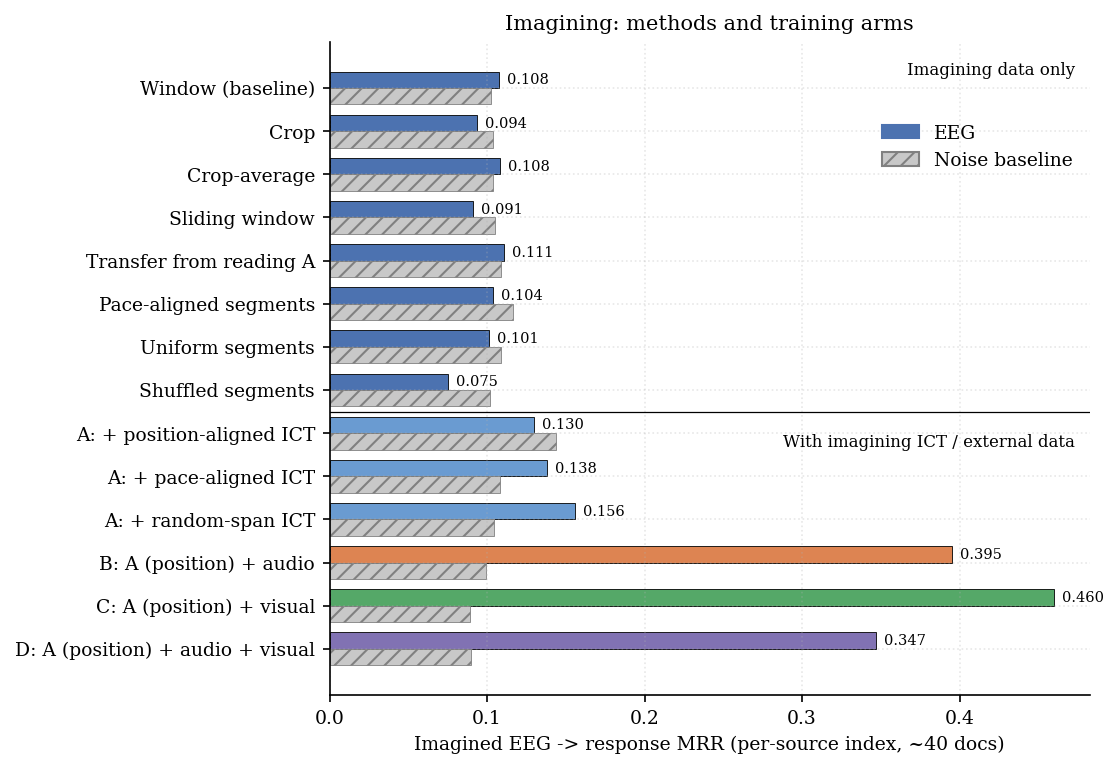
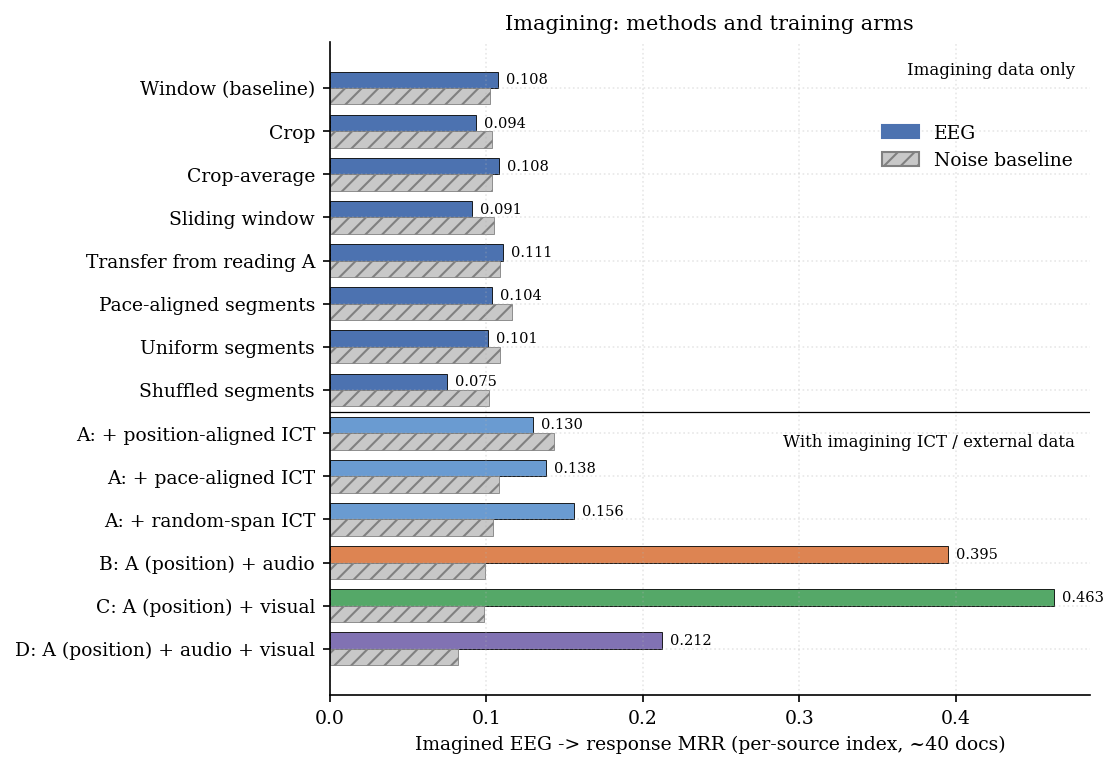
Use Nieuwland reruns in the summary; log setup/Stage 1a submission and lab fixes

diff --git a/findings/summarise_bpr_results.py b/findings/summarise_bpr_results.py
@@ -29,6 +29,19 @@ READ_MOD = "prepared_experiments_20261023_qr_qict_modalities"
 TYPE1 = "prepared_experiments_20261026_typing"
 TYPE2 = "prepared_experiments_20261027_typing_v2"
 IMAG = "prepared_experiments_20261028_imagining_v2"
+# Every arm with Nieuwland (visual) data was rerun on the rebuilt Nieuwland pairs (2026-11-11).
+NIEUWLAND_RERUN = "prepared_experiments_20261111_nieuwland_rerun"
+MISSING_RERUNS = []
+
+
+def _with_rerun(exp: str, arm: str, ext: str) -> str:
+    if "visual" not in ext:
+        return exp
+    rerun = NIEUWLAND_RERUN + ("_256G" if exp.endswith("_256G") else "")
+    if (BPR / rerun / "results" / arm / "test_by_source" / "all_sources_metrics.json").exists():
+        return rerun
+    MISSING_RERUNS.append(arm)
+    return exp
 
 
 # --------------------------------------------------------------------------- loading
@@ -47,7 +60,7 @@ class Run:
     def __init__(self, key, label, exp, arms, roles, ext="none"):
         self.key, self.label, self.ext, self.roles = key, label, ext, roles
         arms = arms if isinstance(arms, list) else [arms]
-        self.data = [_load_arm(exp, arm) for arm in arms]
+        self.data = [_load_arm(_with_rerun(exp, arm, ext), arm) for arm in arms]
         self.n_seeds = len(arms)
 
     def get(self, role, level, name):
@@ -481,7 +494,8 @@ Terms used throughout
   documents only. This is the fair way to compare a task across arms.
 - Noise baseline: the same test, with the EEG replaced by Gaussian noise (90% masking).
 - Audio = Alice (listening EEG, 8,134 ICT pairs). Visual = Nieuwland (reading EEG,
-  8,132 ICT pairs). Both come from the original Audio BPR project.
+  8,132 ICT pairs, rebuilt from the continuous recordings; see section 3).
+  Both come from the original Audio BPR project.
 """
 
 METHODS = """\
@@ -588,20 +602,29 @@ EXTERNAL_TEXT = """\
 3. DID EXTERNAL DATA HELP?
 ==========================
 
+Note on the Nieuwland (visual) data
+- The earlier Nieuwland pairs were built from the short (1.5 s) article/noun epochs in
+  the "Processed segmented data" files. Those files were read in the wrong number format,
+  so the EEG in those pairs did not match the words.
+- The Nieuwland pairs were rebuilt from the continuous OSF recordings, which mark every
+  word: 22 channels, 500 Hz, 1 s per word, 227 participants from 6 labs. The same
+  8,132-pair size was kept.
+- Every arm with Nieuwland data was rerun on the rebuilt pairs, with nothing else
+  changed. All results below use the reruns.
+
 Short answer
-- Pooled-index scores rise sharply with external data in every modality, because the
-  external sources are large and learn well. The per-source tables below isolate the
-  effect on each task.
+- Pooled-index scores rise with external data in every modality, mostly because Alice
+  is large and learns well. The per-source tables below isolate the effect on each task.
 - Reading: the task-only arm A gives the strongest query -> response result. Adding
-  audio keeps query -> response above noise; visual data gives less.
-- Typing: external data gives the best typing -> response results for continuous typing
-  (audio + visual: {t_cont_av}) and the best typing question ICT for keypress
-  (audio + visual: {t_key_av_ict}).
+  audio keeps query -> response above noise; visual data brings it close to noise.
+- Typing: visual data gives the best typing -> response results for continuous typing
+  (v2 + visual: {t_cont_v}, + audio + visual: {t_cont_av}). Audio + visual gives the
+  best typing question ICT for keypress ({t_key_av_ict}).
 - Imagining: external data gives the biggest gain of all modalities. Imagined -> response
   rises from {i_a} (task only) to {i_c} with visual data and {i_b} with audio.
   Imagining ICT rises from {i_a_ict} to about {i_bcd_ict}.
-- Alice and Nieuwland themselves score about 0.11-0.20 MRR in every mixed arm (noise
-  about 0.01).
+- On their own test sets, Alice scores about {alice} MRR and the rebuilt Nieuwland
+  about {nieuwland} (noise about 0.01).
 
 """
 
@@ -611,9 +634,16 @@ def build_text(reading, typing_v1, typing_v2, imagining_methods, imagining_arms)
     fv = lambda run, role: fmt_val(run.get(role, 90, "rr"))  # noqa: E731
     parts = [HEADER, METHODS]
 
+    def source_range(role):
+        values = [run.get(role, 90, "rr") for run in reading + typing_v1 + typing_v2 + imagining_arms]
+        values = [v[0] for v in values if v is not None]
+        return f"{min(values):.2f}-{max(values):.2f}"
+
     ext = EXTERNAL_TEXT.format(
+        t_cont_v=fv(find(typing_v2, "continuous_visual"), "main"),
         t_cont_av=fv(find(typing_v2, "continuous_av"), "main"),
         t_key_av_ict=fv(find(typing_v2, "keypress_av"), "ict"),
+        alice=source_range("alice"), nieuwland=source_range("nieuwland"),
         i_a=fv(find(imagining_arms, "A_position"), "main"), i_b=fv(find(imagining_arms, "B"), "main"),
         i_c=fv(find(imagining_arms, "C"), "main"),
         i_a_ict=fv(find(imagining_arms, "A_position"), "ict"),
@@ -677,7 +707,7 @@ How to read the tables
 - Typing v2 (3 seeds) is stable across seeds. On the full pooled index at 90% masking:
   continuous {c} vs {cn} noise, keypress {k} vs {kn}, word {w} vs {wn}.
 - Keypress typing gives the strongest typing ICT signal: {kict} vs {kictn} noise.
-- With audio + visual data, pooled MRR reaches about 0.14 for all three formats.
+- With audio data, pooled MRR reaches about 0.10-0.11 for all three formats.
 
 """.format(c=fv(cont, "pooled"), cn=fmt_val(cont.get("pooled", "noise", "rr")), k=fv(key, "pooled"),
            kn=fmt_val(key.get("pooled", "noise", "rr")), w=fv(word, "pooled"),
@@ -722,6 +752,8 @@ def main():
     _style()
     FIG_DIR.mkdir(parents=True, exist_ok=True)
     reading, typing_v1, typing_v2, imagining_methods, imagining_arms = build_runs()
+    if MISSING_RERUNS:
+        print("WARNING: old Nieuwland results still used for", MISSING_RERUNS)
     OUT_TXT.write_text(build_text(reading, typing_v1, typing_v2, imagining_methods, imagining_arms))
     print(OUT_TXT)
     for path in (fig_external_effect(reading, typing_v2, imagining_arms),

diff --git a/EXPERIMENT_LOG.md b/EXPERIMENT_LOG.md
@@ -512,3 +512,69 @@ So we cannot yet say whether balancing or longer training caused the improvement
 
 1. Decide on the checkpoint fix, then resubmit the 15 failed imagining runs (arms B–D, seeds, Nieuwland transfer, methods inside arm C, combined targets).
 2. Run arm A for 150 epochs without balancing, to separate balancing from training length.
+
+## 2026-11-11: Setup, Stage 1 (Foundation Models) and Stage 2 (Pooling) Prepared
+
+Nothing has been submitted. Job files are generated by `Audio_BPR/stage_scheduler.py`.
+
+### Code changes (`Audio_BPR`)
+
+- Checkpoint fix (`--best-checkpoint-copy`): the best epoch's weights are copied, restored and tested. Without the flag the original shallow copy is kept, so older runs stay reproducible.
+- Fixed task test set (`--split-strategy original_fixed`): the original Audio BPR split (seed 42, 80% train, test = second half of the remaining 20%) is applied to each source on its own. Adding Alice or Nieuwland no longer changes the task test pairs. With one source it gives exactly the original split.
+- EEG foundation models (`--eeg_arch labram|cbramod|reve|eegpt|biot`, `fm_encoders.py`), loaded from the Hugging Face Hub through braindecode 2.0:
+  - Each EEG unit is encoded on its own; the unit vectors are projected to 768 dimensions and pooled as before.
+  - Input adapter: channels matched by electrode name, common-average reference, resampling to the model's rate (200 Hz; 256 Hz for EEGPT), a fixed 1 s unit, per-channel z-score clipped at ±15.
+  - Channel layout: the 62 task scalp electrodes the model knows (60 for EEGPT). BIOT uses its 18 bipolar pairs; the task ear channels serve as A1/A2.
+  - Fine-tuning levels (`--fm-finetune`): `frozen` (backbone fixed, linear projection trained), `top` (last 2 blocks unfrozen), `full`.
+- EEG-only pooling (`--eeg-pooling mean|max|cls|attention`; multiple-instance = mean with `--eeg-window-units 2`). Text pooling stays mean. Attention pooling writes each test query's per-unit weights to `test_by_source/eeg_attention_weights.json`.
+- A separate environment, `~/envs/bpr_fm` (Python 3.13, torch 2.8 + CUDA 12.8, braindecode 2.0, transformers 4.56), is used for all new runs. The existing test suite passes in both environments; `tests/test_next_stages.py` covers the new options.
+
+### Montage and sampling-rate check (`findings/eeg_montage_report.txt`)
+
+| Source | Rate in pair files | Channels | Notes |
+|---|---|---|---|
+| Task | 512 Hz, 513-sample units | 62 scalp (10-10) + 2 ear | Unfiltered, recording reference |
+| Alice | 128 Hz (recorded at 500 Hz) | 61 numbered EasyCap M10 + VEOG + aux | 38 electrodes map to a task electrode within 20 mm |
+| Nieuwland | Not recoverable | — | See below |
+
+Nieuwland finding: the raw `.dat` files are INT_32 and VECTORIZED (all of channel 1, then channel 2, ...), with 22–26 named channels at 250–1000 Hz. `nieuwland_ict_reader_v2.py` reads them as int16 multiplexed data with a guessed 32/16/8 channels and assumes 500 Hz. The Nieuwland EEG in the pair files is therefore not channel × time EEG. All earlier "+ visual" results used these files. Foundation-model runs cannot use Nieuwland until the reader is corrected and the pairs are rebuilt.
+
+### Prepared job folders (`Audio_BPR/prepared_experiments_20261111_*`)
+
+| Folder | Jobs | Content |
+|---|---:|---|
+| `setup` | 48 | MLP, mean pooling: reading, typing continuous, typing keypress, imagining × (arm A, + Alice, + Nieuwland, + both) × seeds 42–44 |
+| `stage1a_pilot` | 15 | 5 foundation models × 3 fine-tuning levels, reading arm A, seed 42 |
+| `stage1a` | 135 | 5 models × 3 levels × (reading, typing continuous, imagining) × 3 seeds |
+| `stage2` | 45 | MLP × 5 pooling options × 3 modalities × 3 seeds |
+
+All jobs use `original_fixed`, `--best-checkpoint-copy`, early stopping on the task validation loss (reading now also uses `authentic_query`), and the previous per-modality settings (reading: lr 1e-5, patience 5; typing and imagining: lr 3e-5, patience 20, at least 10 epochs, clip 5). External-data arms use source balancing.
+
+Still to generate once results are in:
+- Stage 1b (best foundation-model setup + Alice): `python stage_scheduler.py stage1b --best reading=<model>:<level> ...`
+- Stage 2 with the best foundation model: `python stage_scheduler.py stage2 --only-fm --best ...`
+- If keypress beats continuous in the setup runs: regenerate stage 1a/2 with `--typing-format keypress`.
+
+## 2026-11-11: Nieuwland Pairs Rebuilt From the Continuous Recordings
+
+- The old Nieuwland pairs were built from `~/Processed segmented data`, which holds only 1.5 s epochs around each sentence's article and noun (200–360 s of EEG per participant, against ~900 s needed for full sentences), read in the wrong binary format. Details: `findings/nieuwland_format_audit.txt`, `findings/eeg_montage_report.txt`.
+- The continuous recordings are on the paper's OSF page (`osf.io/eyzaq`, "Raw data", 9 labs). They have an onset marker for every word (255 = any word, 201–204 article, 205/206 noun, 207/208 final word).
+- New reader `Audio_BPR/Dataset/nieuwland_continuous_reader.py`:
+  - Sentence text from `REPLICATION_ITEMS.xlsx`. Each sentence's marker count and article/noun positions must match the text, or the sentence is dropped.
+  - The paper's 22 channels, 0.5–100 Hz band-pass, 50 Hz notch, average reference, 500 Hz, 0–500 ms window per word (250 × 22).
+  - ICT pairs as before: span of ~30% of the words → full sentence, masked at runtime, 2 pairs per sentence, seed 42.
+- Bristol check: all 80 sentences per participant match (1,798 words), all 22 channels present; the all-word average shows the expected visual response at Oz (~7 µV at 150 ms).
+- Job `8294029` downloads each lab, builds word EEG, deletes the raw files, then writes `~/BPR_mean_pooling_inputs/nieuwland_continuous_ict_pairs_all.npy` (all pairs) and `nieuwland_continuous_ict_pairs_RUNTIME_MASKING.npy` (8,132 randomly sampled pairs, seed 42, the same size as the old file).
+- Reruns of all 15 earlier "+ Nieuwland" arms (reading, typing v1/v2, imagining C/D), identical settings with only the Nieuwland file swapped: jobs `8294064`–`8294078`, waiting on `8294029`. Results in `Audio_BPR/prepared_experiments_20261111_nieuwland_rerun{,_256G}/`.
+- The setup and Stage 1b jobs now point at the rebuilt file; the foundation-model adapter maps Nieuwland's 22 channels.
+- Job `8294029` result: 227 participants from 6 labs (BRIS 39, KENT 38, LOND 38, EDIN 40, YORK 41, BIRM 31); 35,848 pairs in total.
+- Rerun results (per-source MRR at 90% masking): imagining C 0.463 (old 0.460), imagining D 0.212 (old 0.347); Nieuwland's own MRR about 0.03–0.05 (noise 0.01). `typing_v2_keypress_audio_visual` ran out of GPU memory on a 40 GB node and was resubmitted on 80 GB nodes (job `8296999`). `findings/BPR_progress_summary.txt` now uses the reruns.
+
+## 2026-11-12: Setup and Stage 1a Pilot Submitted; Three More Nieuwland Labs
+
+- Submitted the 48 setup jobs and the 15 Stage 1a pilot jobs (IDs in each folder's `SUBMITTED_JOBS.txt`).
+- Fixes for the labs that failed in `8294029`:
+  - Oxford: its BrainVision files carry a `Status` channel, which was read before the marker annotations. Annotations are now read first.
+  - Stirling: the Neuroscan headers store a wrong sample count. It is now recomputed from the event-table position (int32 samples, 250 Hz); markers end inside the data.
+  - Glasgow: BioSemi A1–D32 electrodes are now matched to the 22 channels by direction on the head (≤ 12°), which finds all 22.
+- Job `8298090` builds these three labs and writes a separate pair set, `nieuwland_all_labs_ict_pairs_{all,RUNTIME_MASKING}.npy`. The existing `nieuwland_continuous_*` file is unchanged, so the running setup jobs and the reruns stay consistent.
